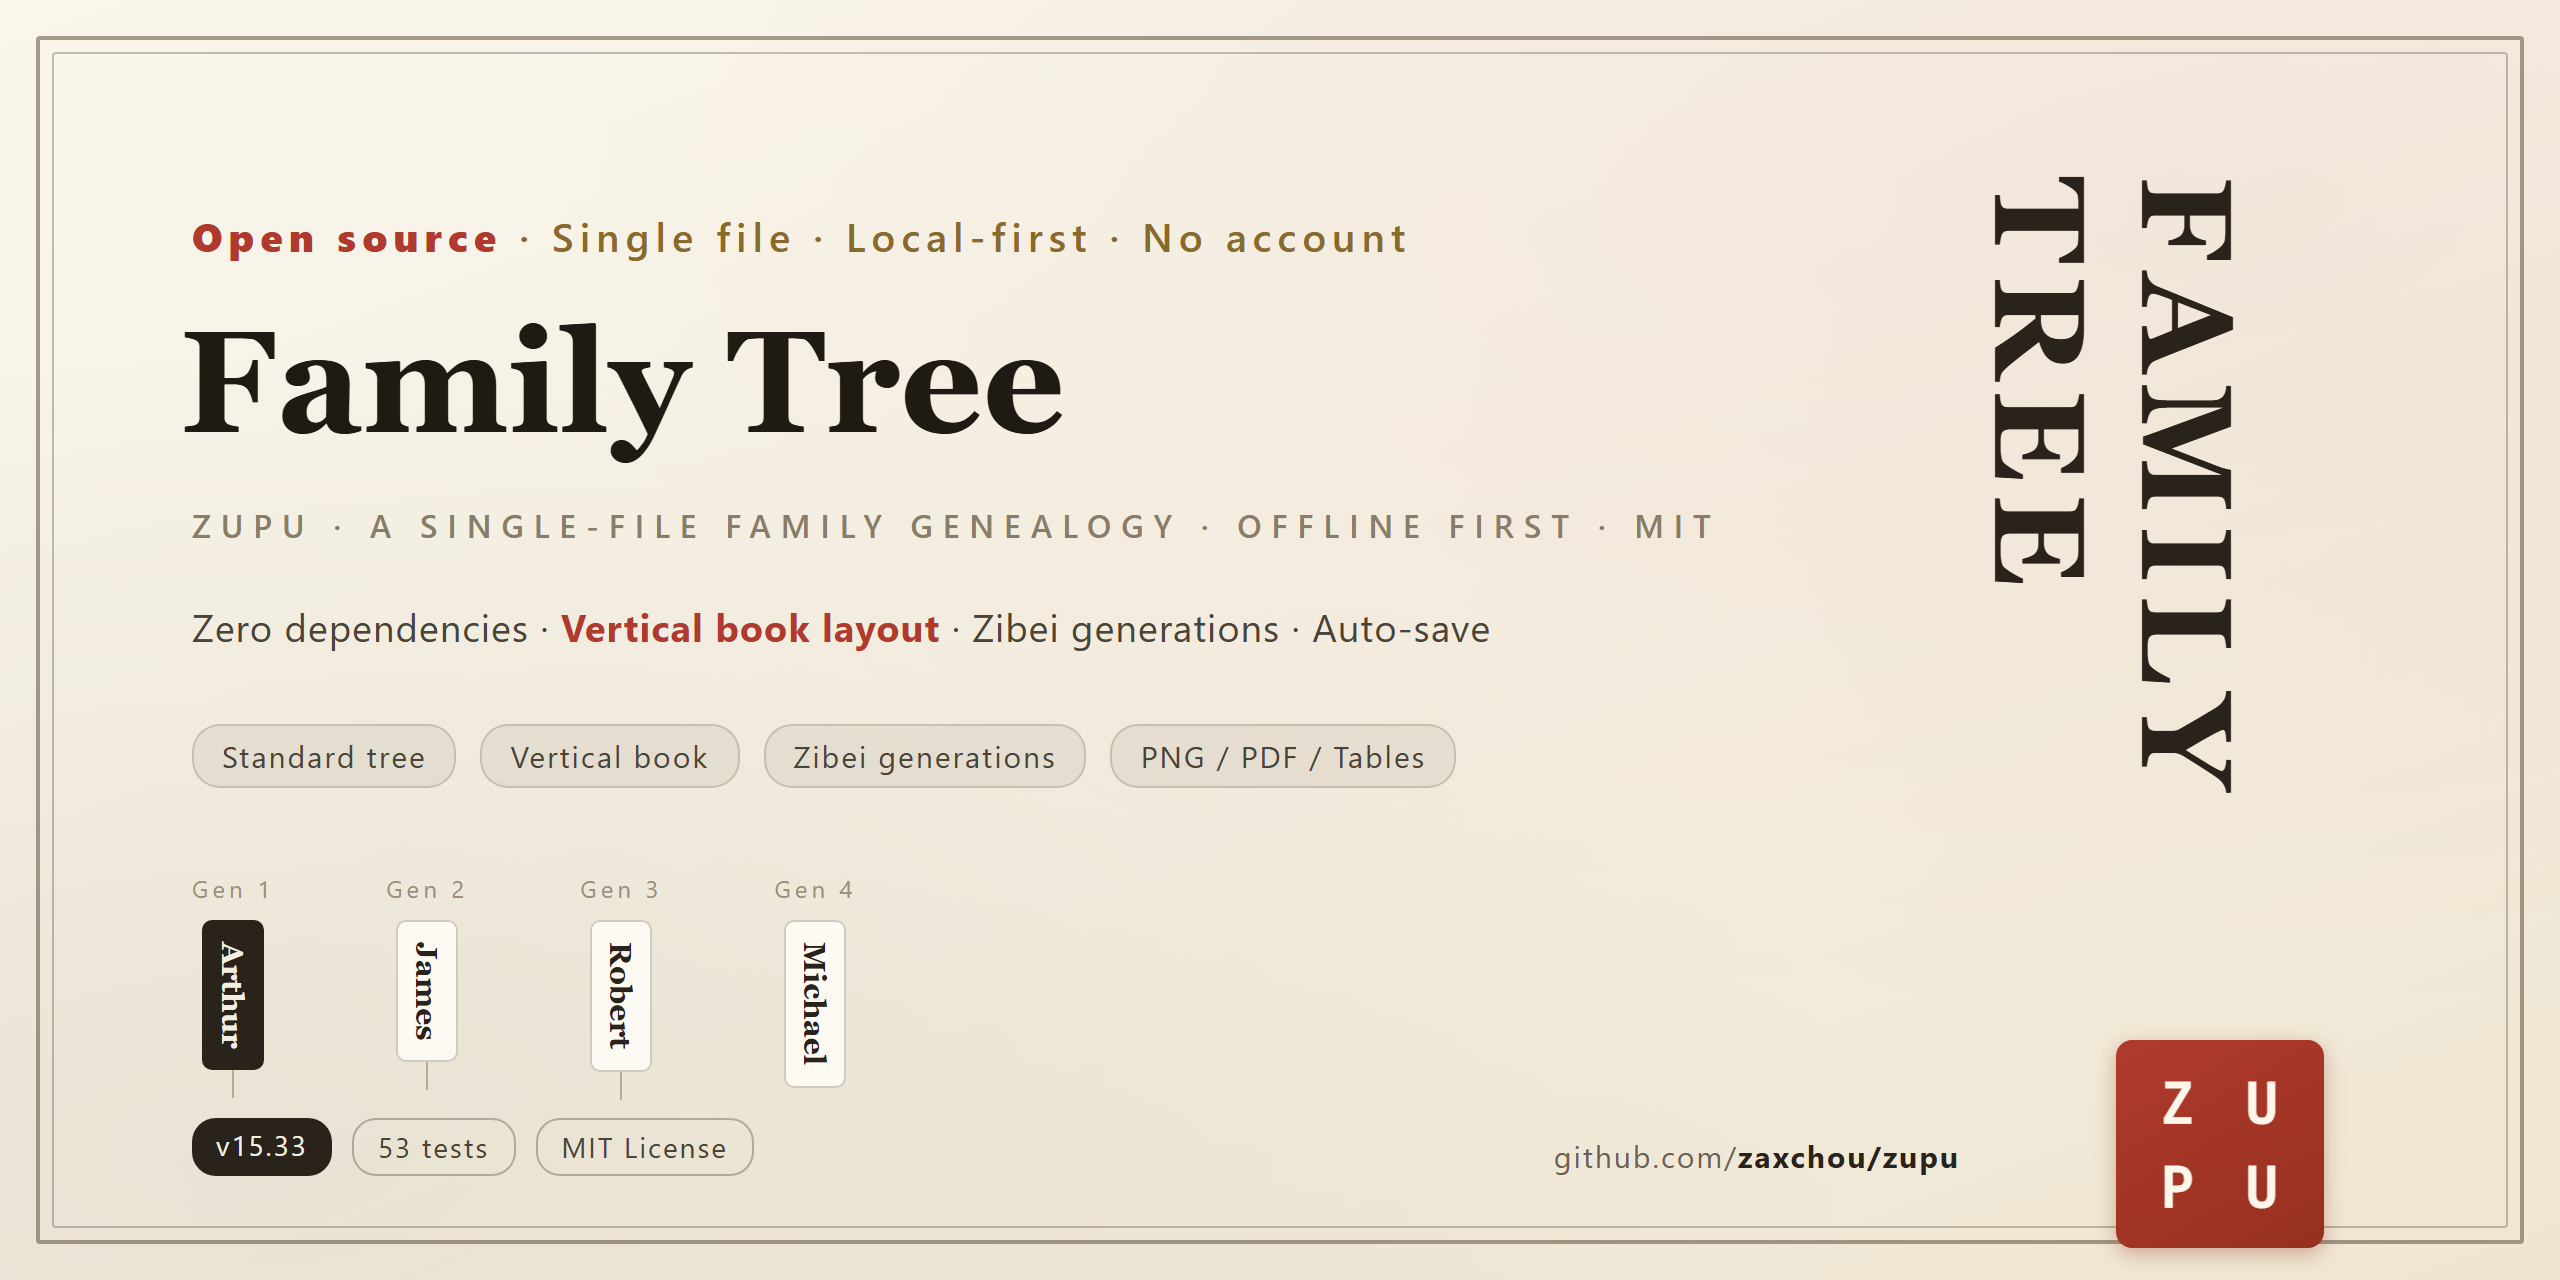
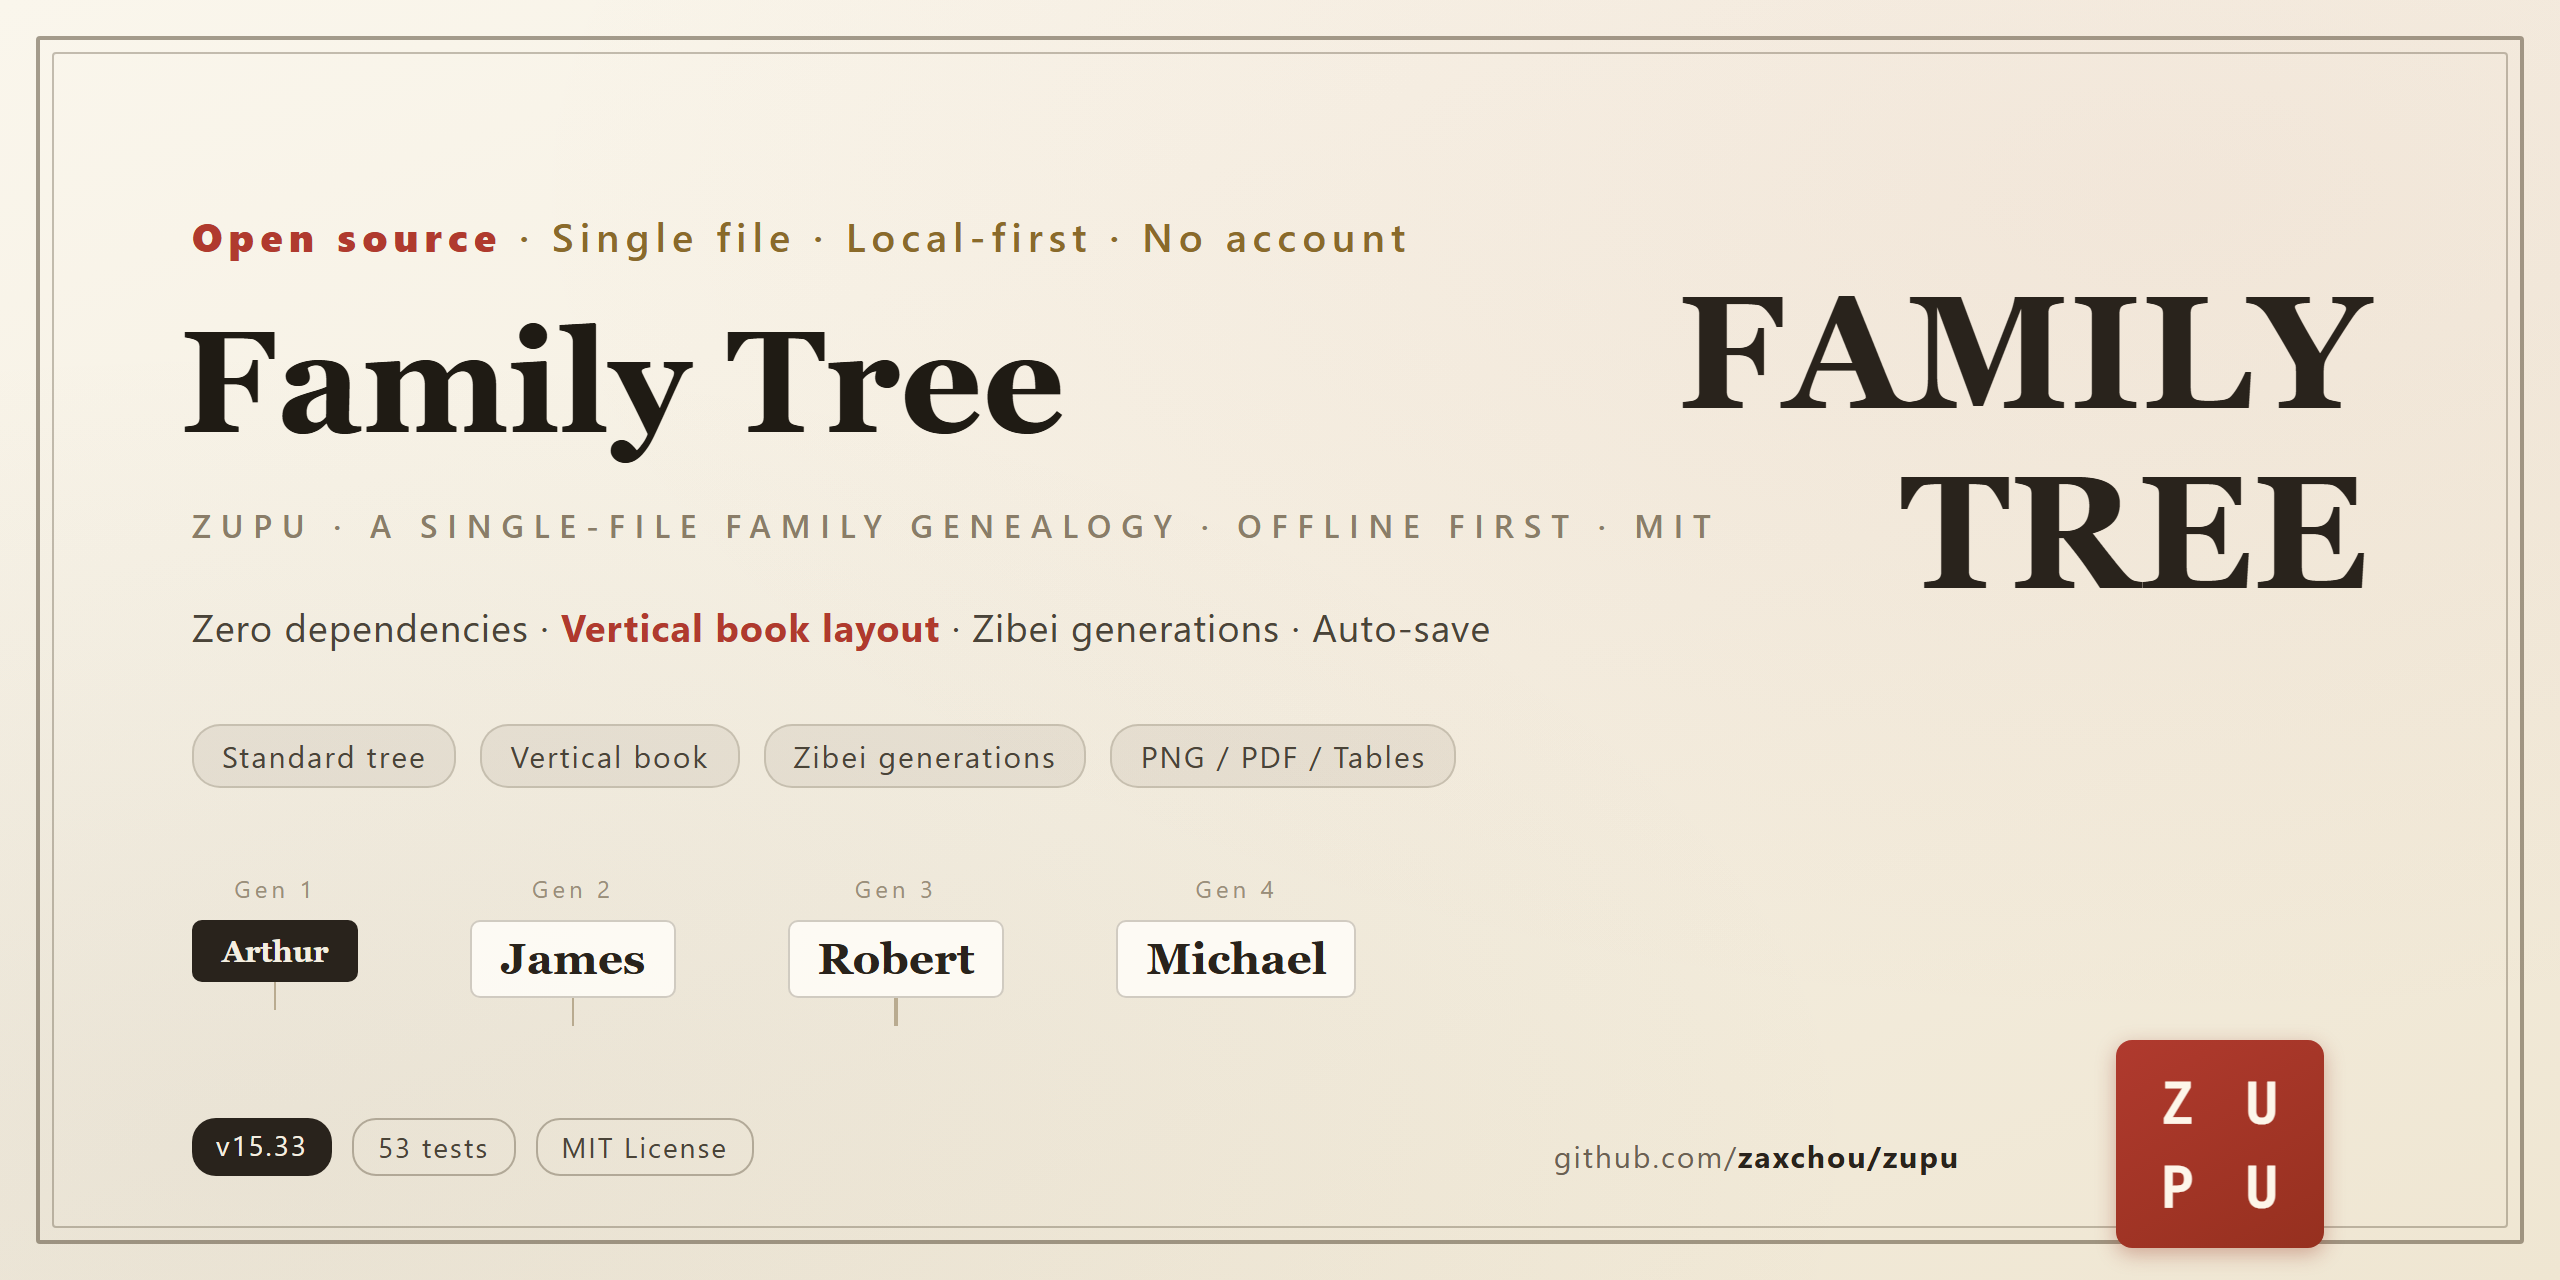
英文封面改全横排：右侧大标题与迷你树名字牌不再使用纵排

diff --git a/docs/_cover-en.html b/docs/_cover-en.html
@@ -18,10 +18,9 @@
   .frame-inner{position:absolute;inset:26px;border:1px solid rgba(93,80,60,.35);border-radius:2px}
   /* 右侧竖排大标题 */
   .title-v{
-    position:absolute;top:88px;right:150px;
-    writing-mode:vertical-rl;text-orientation:mixed;
+    position:absolute;top:132px;right:96px;text-align:right;
     font-family:Georgia,"Times New Roman",serif;font-weight:700;
-    font-size:64px;letter-spacing:6px;line-height:1.15;color:#29231c;
+    font-size:80px;line-height:1.12;letter-spacing:0;color:#29231c;
   }
   /* 印章：传家之谱 */
   .seal{
@@ -48,11 +47,11 @@
   .tree{position:absolute;left:96px;top:436px;display:flex;gap:56px;align-items:flex-start}
   .col{display:flex;flex-direction:column;align-items:center}
   .gen{font-size:12px;color:#9a8f79;letter-spacing:2px;margin-bottom:8px}
-  .name{writing-mode:vertical-rl;text-orientation:mixed;font-family:Georgia,"Times New Roman",serif;
-        font-size:15px;font-weight:700;color:#29231c;background:rgba(255,253,248,.85);
-        border:1px solid rgba(93,80,60,.28);border-radius:5px;padding:10px 6px}
+  .name{font-family:Georgia,"Times New Roman",serif;
+        font-size:22px;font-weight:700;color:#29231c;background:rgba(255,253,248,.85);
+        border:1px solid rgba(93,80,60,.28);border-radius:5px;padding:6px 14px}
   .root .name{background:#29231c;color:#f4eee0;border-color:#29231c;font-size:15px}
-  .wife{writing-mode:vertical-rl;text-orientation:mixed;font-size:13px;color:#9aa0a8;margin-left:-26px;margin-top:14px}
+  .wife{writing-mode:vertical-rl;text-orientation:upright;font-size:13px;color:#9aa0a8;margin-left:-26px;margin-top:14px}
   .link{width:1.5px;height:26px;background:#b9ab90;margin:0 auto}
   .bus{position:absolute;left:96px;top:424px;width:474px;height:0}
   .foot{position:absolute;left:96px;bottom:52px;display:flex;gap:10px}

diff --git a/tools/build_covers.py b/tools/build_covers.py
@@ -10,9 +10,14 @@ EN = [
   ('<html lang="zh">', '<html lang="en">'),
   ('font-family:"PingFang SC","Microsoft YaHei",sans-serif;', 'font-family:"Segoe UI",Arial,sans-serif;'),
   ('"Songti SC","SimSun",serif', 'Georgia,"Times New Roman",serif', 3),
-  ('text-orientation:upright', 'text-orientation:mixed', 3),   # 拉丁字母书脊式（旋转 90°，可读）
-  ('font-size:96px;letter-spacing:18px;color:#29231c;', 'font-size:64px;letter-spacing:6px;line-height:1.15;color:#29231c;'),
-  ('font-size:22px;font-weight:700;color:#29231c;background:', 'font-size:15px;font-weight:700;color:#29231c;background:'),
+  # 右侧大标题改横排（两行右对齐），不用古法纵排
+  ('position:absolute;top:88px;right:150px;\n    writing-mode:vertical-rl;text-orientation:upright;',
+   'position:absolute;top:132px;right:96px;text-align:right;'),
+  ('font-size:96px;letter-spacing:18px;color:#29231c;',
+   'font-size:80px;line-height:1.12;letter-spacing:0;color:#29231c;'),
+  # 迷你树名字牌改横排
+  ('.name{writing-mode:vertical-rl;text-orientation:upright;', '.name{'),
+  ('border-radius:5px;padding:10px 6px}', 'border-radius:5px;padding:6px 14px}'),
   ('font-size:76px;font-weight:700;color:#1f1b14;letter-spacing:4px', 'font-size:72px;font-weight:700;color:#1f1b14;letter-spacing:0'),
   ('letter-spacing:10px;color:#8a6a2a', 'letter-spacing:3px;color:#8a6a2a'),
   ('letter-spacing:2px}\n  .desc b', 'letter-spacing:.5px}\n  .desc b'),

diff --git a/handoff.md b/handoff.md
@@ -313,7 +313,7 @@ with sync_playwright() as p:
 | v15.31 | **问题修复与文档一致性整理（2026-08-29，全仓库审查后集中处理）**：①**删除字辈/谱序「跨候选补齐」逻辑**——开源后内嵌种子是通用演示数据，用户主动清空的字辈表刷新后被演示字辈复活（t_zibei_cleared_stays_cleared 回归）；②**demo 标记随真实编辑摘除**（pushHistory 里 delete treeData.demo）——点背景关向导后录自家谱，刷新不再复扰（t_wizard_nag_stops_after_real_edit）；③**保存失败示警**——_lastSaveOk + save-fail 红灯「未能保存」，且 updateSaveState 移到 saveData 之后（顺序 bug：原指示灯显示的是上一次结果）（t_autosave_save_fail_visible 用 Storage.prototype.setItem 抛错模拟）；④favicon 周→族（通用化漏网）；⑤文档一致性：CHANGELOG 补 v15.31 且开源化归属改 v15.29–v15.30（原误标 v15.29）、README 徽章 v15.31、LICENSE zax→zaxchou、封面重制（v15.31/50 用例/2x）、.gitignore 去掉已改名文件的过时条目并新增 Thumbs.db 与 *-备份-*.json 防护（用户本机真实备份落在工作区，绝不入库）、删除过期快照 家族族谱-思维导图.md。新 3 用例改写 1 用例，全套 11 模块 50 用例（当前版本） |
 | v15.32 | **多语言版本（2026-08-29，用户要求做英文/日文版并更新多语言 README）**：①`tools/build_i18n.py`——从中文母本 `index.html` 精确子串替换生成 `index-en.html` / `index-ja.html`，每条替换带次数断言，全部失配集中报告且不写文件（漂移探测器：母本演进后重跑即知漏翻）；②英文版：UI 全译，示例谱用**世代名**（Arthur/James/Robert/Michael，名字含世代名→字辈匹配照常工作），numToCn→阿拉伯数字、genLabel→「Gen N」、女→♀、嗣→ad、止→dsp、设置去汉字选项、bookSpouse 默认关；日文版：UI 全译，示例谱用单姓「林」家（保证姓氏识别/只报名语义正确），廿卅卌→二十三十四十，RANK_WORDS 長次三…，其余汉字概念（字/号/嗣/止/堂号）日文共用；③**CJK 守卫进母本**：spouseDisplay 遇非中日文名直接返回（罗马字名不再生成「X氏Y」乱码）；④两语言文件残留校验：EN 剔除注释后 CJK 仅剩 CS_SURN 复姓表与「氏」逻辑（数据级，保留）；⑤t_i18n 双冒烟（向导/添加成员/世代角标/顶栏图例无中文），runner 12 模块 52 用例；⑥踩坑：工具调用/Edit 里 `
 ` 是真实换行而表文件里是字面反斜杠+n，改续行缩进必须先 grep 实际字节；替换串吞结尾引号会造成 SyntaxError（addChild prompt 两语言各踩一次），语法错误用 window.onerror lineno 定位；⑦README 三语互链 + README.en.md / README.ja.md，Release zip 含三语言文件。⑧用户确认「不要语言切换，要独立语言单独文件」——应用本无切换器，但发现三文件共用 localStorage（中文数据会漏进英文界面），改为各语言独立存储键（zupu_data_v4_en/_ja + cfg 同理）并加测试断言。⑨封面也按语言分开：tools/build_covers.py 从中文源生成 _cover-en/_cover-ja（英文 Georgia 衬线 + FAMILY|TREE 书脊式双列竖标题 + ZUPU 印；日文明朝体 + 家系図竖题 + 家系図譜印），README 各挂各语封面。全套 12 模块 52 用例（当前版本） |
-| v15.33 | **新增繁體中文版（2026-08-29，用户要求再加繁体中文）**：①`tools/build_i18n.py` 新增 build_hant——OpenCC s2twp 整文件转换（代码全 ASCII 不受影响，注释/示例谱一并转换保持四语同构），叠加独立存储键（zupu_data_v4_hant / zupu_cfg_v1_hant）、lang=zh-Hant、用语校正（賬號→帳號）；哨兵断言（儲存/檔案/字輩/家族族譜 必须出现、简体词必须消失）；②t_i18n 新增 zh-Hant 冒烟（嚮導/儲存燈/檔案選單/示例譜繁體/添加成員/獨立儲存鍵），53 用例；③封面四语言：build_covers.py 版本升 v15.33/53 用例（幂等 bump），新增繁体封面（PingFang TC/JhengHei + PMingLiU 明体，傳家之譜印），四张 PNG 重制；④README.zh-Hant.md（台湾用语全文）+ 四份 README 互链/徽章/下载指引/四语清单；⑤发布 v15.33：四个语言单文件资产（无完整包）。全套 12 模块 53 用例（当前版本） |
+| v15.33 | **新增繁體中文版（2026-08-29，用户要求再加繁体中文）**：①`tools/build_i18n.py` 新增 build_hant——OpenCC s2twp 整文件转换（代码全 ASCII 不受影响，注释/示例谱一并转换保持四语同构），叠加独立存储键（zupu_data_v4_hant / zupu_cfg_v1_hant）、lang=zh-Hant、用语校正（賬號→帳號）；哨兵断言（儲存/檔案/字輩/家族族譜 必须出现、简体词必须消失）；②t_i18n 新增 zh-Hant 冒烟（嚮導/儲存燈/檔案選單/示例譜繁體/添加成員/獨立儲存鍵），53 用例；③封面四语言：build_covers.py 版本升 v15.33/53 用例（幂等 bump），新增繁体封面（PingFang TC/JhengHei + PMingLiU 明体，傳家之譜印），四张 PNG 重制；④README.zh-Hant.md（台湾用语全文）+ 四份 README 互链/徽章/下载指引/四语清单；⑤发布 v15.33：四个语言单文件资产（无完整包）。⑥用户反馈英文版不要古法纵排：英文封面改全横排（右侧 FAMILY/TREE 两行右对齐横排大标题替代书脊式竖排，迷你树名字牌改横排铭牌）；应用本体默认视图本就是横版（vertical:false），竖排（古法）仅作为可选项保留。全套 12 模块 53 用例（当前版本） |
 ---
 
 *交接完毕。有问题先看 §8 踩坑记录，再改代码；每改一处跑一遍 §9 回归。*
